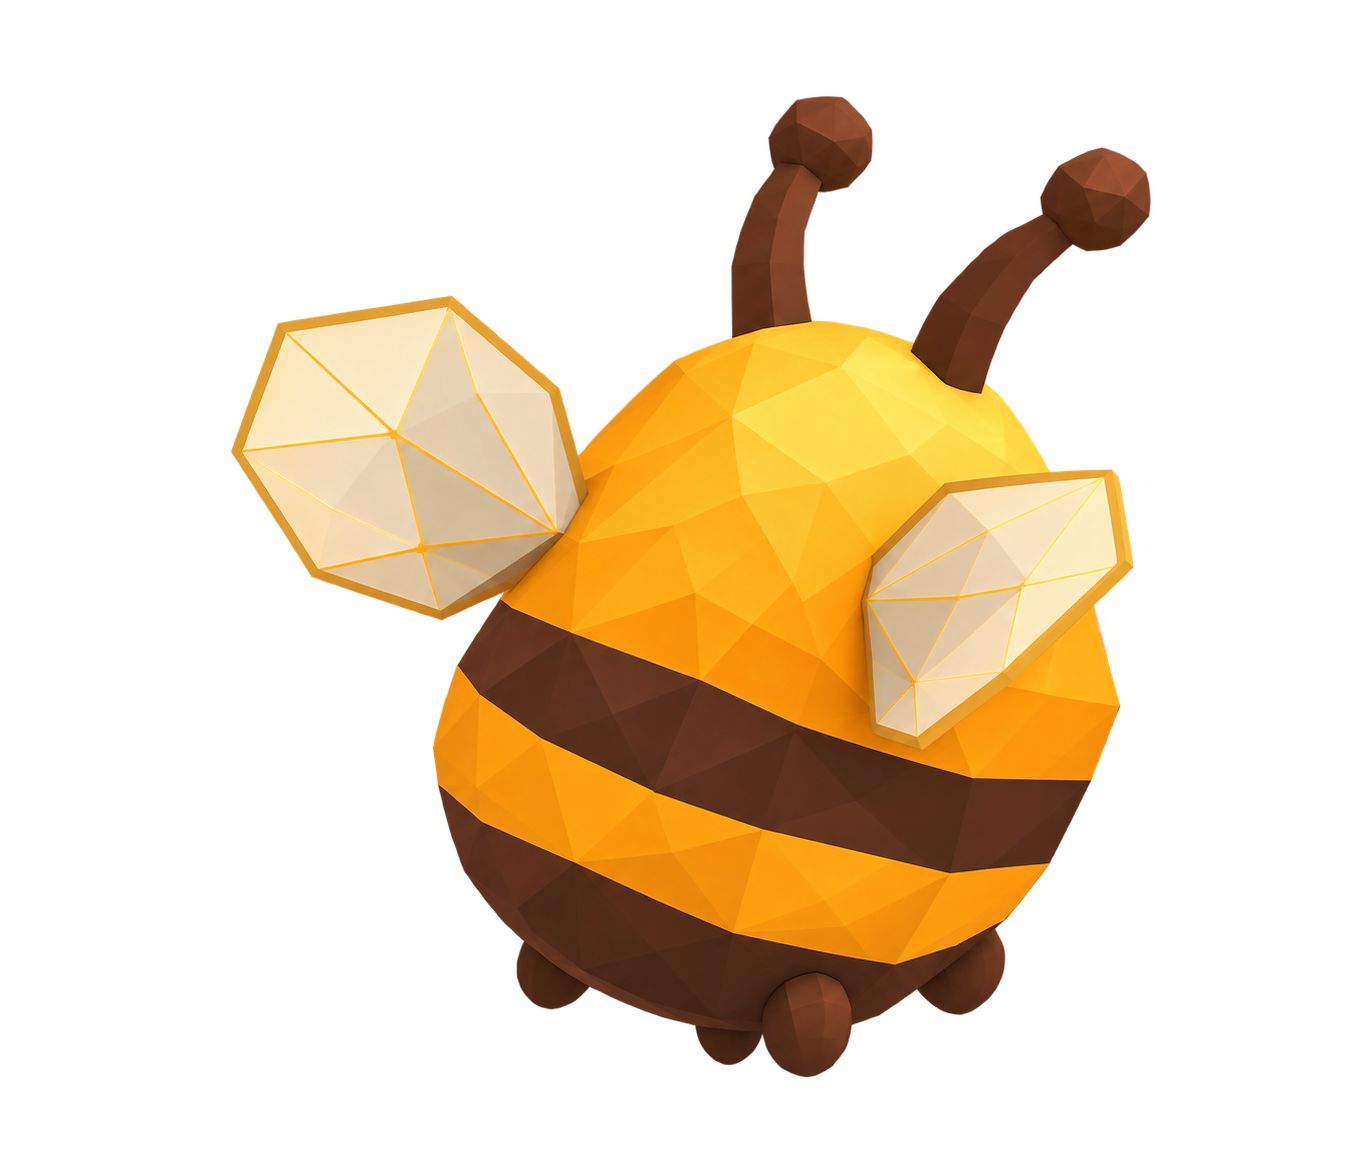
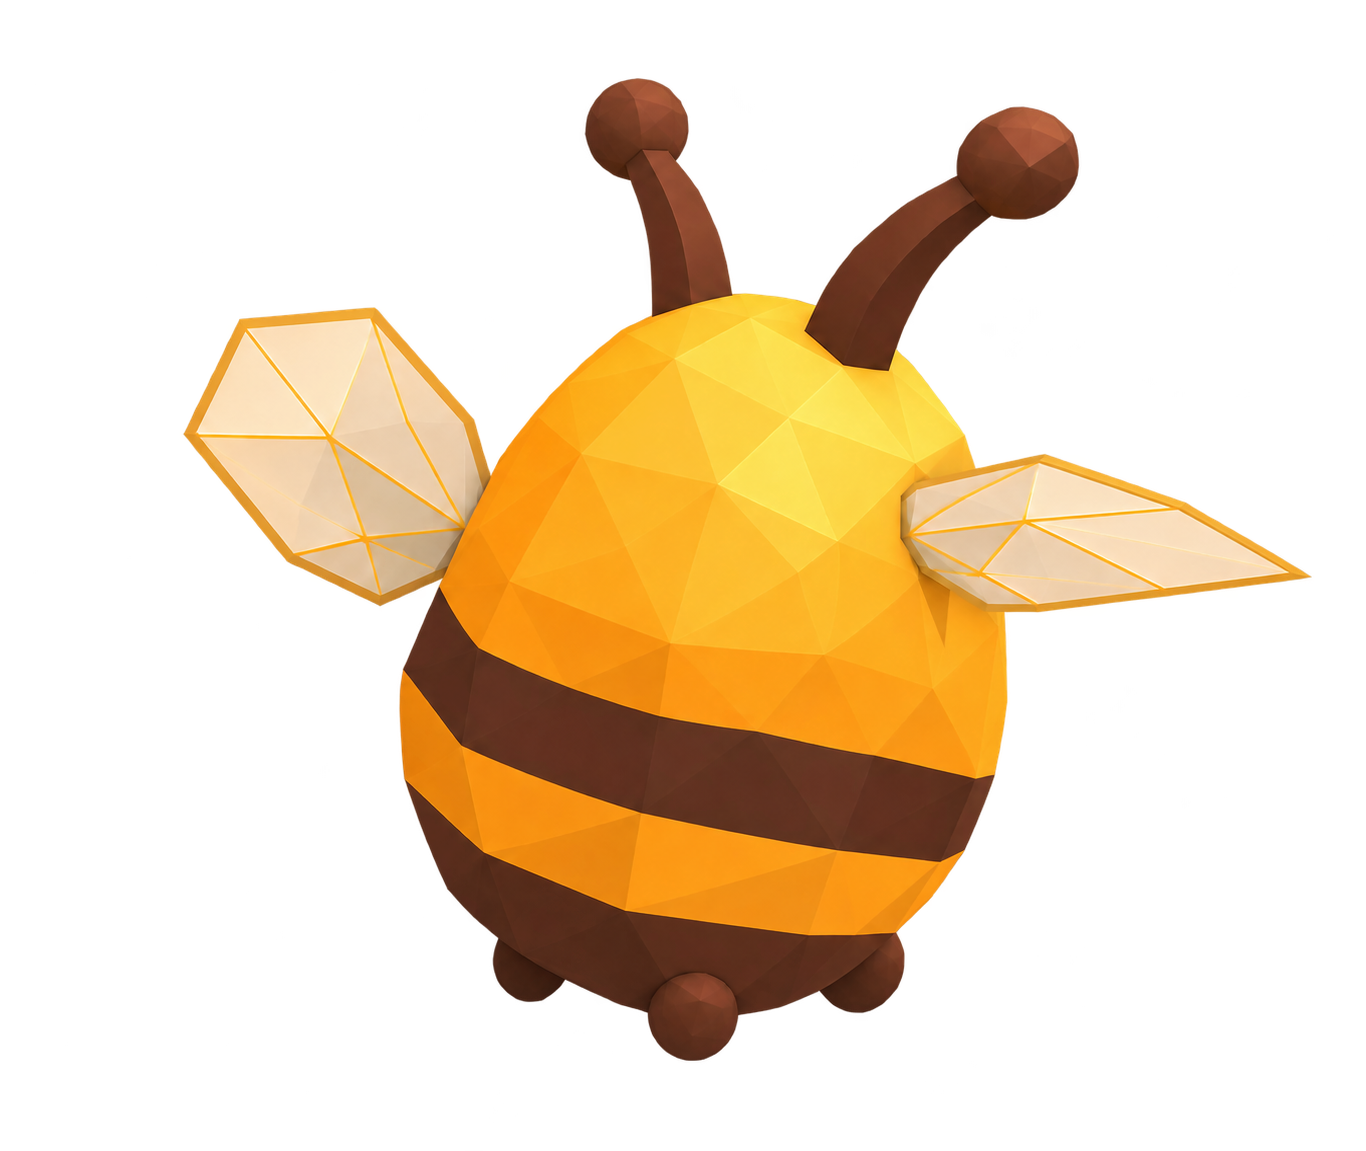
feat(art): refine unapproved angles and add underside reference

Changed region(s): [[0.123, 0.0608, 0.9531, 0.9427], [0.5842, 0.7298, 0.6149, 0.7602]]

diff --git a/design/3d/turnaround/REVISION-5.ru.md b/design/3d/turnaround/REVISION-5.ru.md
@@ -1,0 +1,13 @@
+# Доработка неутверждённых видов, revision 5
+
+Утверждённые front, back, q3-front, face-front и face-q3 не изменены. Проверка SHA-256 всех пяти файлов прошла; значения в approved-views-sha256.json.
+
+Изменены только side, q3-back, top; добавлен bottom. Все новые виды ожидают оценки. Игра и игровые ассеты не менялись; 3D не создавался.
+
+Инструмент: image_gen.imagegen, transparent_background=true; отдельная генерация каждого вида. Новые PNG сохранены без ретуши. Промпты: revision-v5-prompts.json. Для side переданы утверждённые front/back и старый side; для q3-back — front/back и новый side, затем отдельная коррекция ближнего крыла с утверждёнными front/back; для top/bottom — front/back и новый side. Старые side/q3-back/top в archive-before-v5.
+
+Изменения: профиль показывает более узкий глаз и более узкие проекции крыльев; задние три четверти имеют ближнее крыло, выступающее наружу; верх показывает скрытые лапки и укороченные усики; снизу предложены три точки крепления маленьких лапок. Расположение лапок снизу и форма скрытых поверхностей придуманы, пока не утверждены.
+
+Остаются сомнения: профиль не доказан как ровно 90 градусов; верх всё ещё может читаться как наклонённый вид сзади. Новые крылья имеют более толстый кант, чем эталон, и их единая поза между независимыми генерациями не гарантирована. Задний угол может выглядеть более глубоким, чем утверждённая спина. Раскладка граней не совпадает буквально, точная стыковка полос требует дальнейшей сверки. Не считать этот комплект точными инженерными проекциями только потому, что файлы существуют.
+
+В коллаже полные исходные холсты уменьшены одним коэффициентом .39; каждый персонаж не масштабировался отдельно. Лица показаны отдельными крупными планами. Коллаж собран Pillow без художественной перерисовки.

diff --git a/design/3d/turnaround/README.ru.md b/design/3d/turnaround/README.ru.md
@@ -41,3 +41,7 @@ design/3d/zhuzha отсутствует в текущей ветке. Игра, 
 
 ### Back revision 3
 По повторному замечанию владельца спина дополнительно сужена, граница верхней коричневой полосы повторяет более низкий изгиб front. Два вызова image_gen: исправление полосы напрямую по front, затем локальное сужение корпуса. Точные промпты back-proportions-v3-prompts.json. Передний вид без изменений; новый задний не утверждён. Измерения ширины корпуса на y700/800/900 (alpha>128): {'front': {700: 634, 800: 612, 900: 491}, 'back': {700: 616, 800: 589, 900: 471}}. Это несколько контрольных срезов, не доказательство совпадения всей формы.
+
+
+## Актуальная доработка
+См. REVISION-5.ru.md. Front, back, q3-front и оба крупных плана утверждены владельцем и защищены проверкой контрольных сумм. Новые профиль, задние три четверти, верх и низ пока на согласовании.
